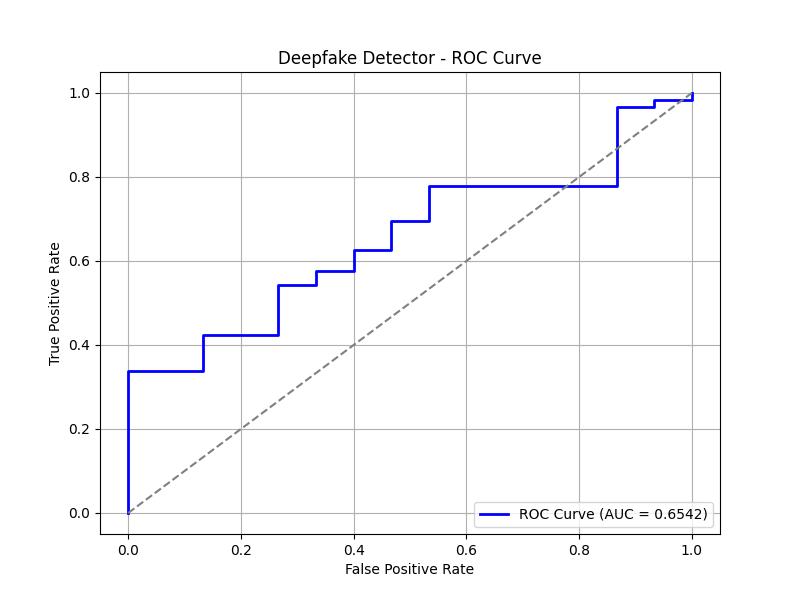
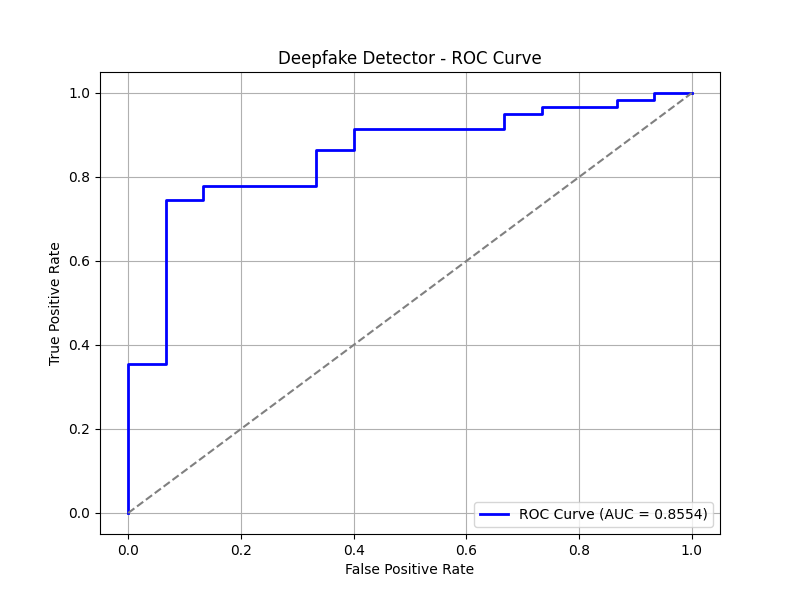
added results

diff --git a/results.md b/results.md
@@ -9,11 +9,12 @@ Auc_roc   : 0.8927
 
 # Base Model SSIM
 Classification Metrics:
-Accuracy  : 0.6757
-Precision : 0.8431
-Recall    : 0.7288
-F1        : 0.7818
-Auc_roc   : 0.6542
+Accuracy  : 0.7703
+Precision : 0.9038
+Recall    : 0.7966
+F1        : 0.8468
+Auc_roc   : 0.8554
+
 ![alt text](base:model_SSIM.png)
 
 # Efficient
